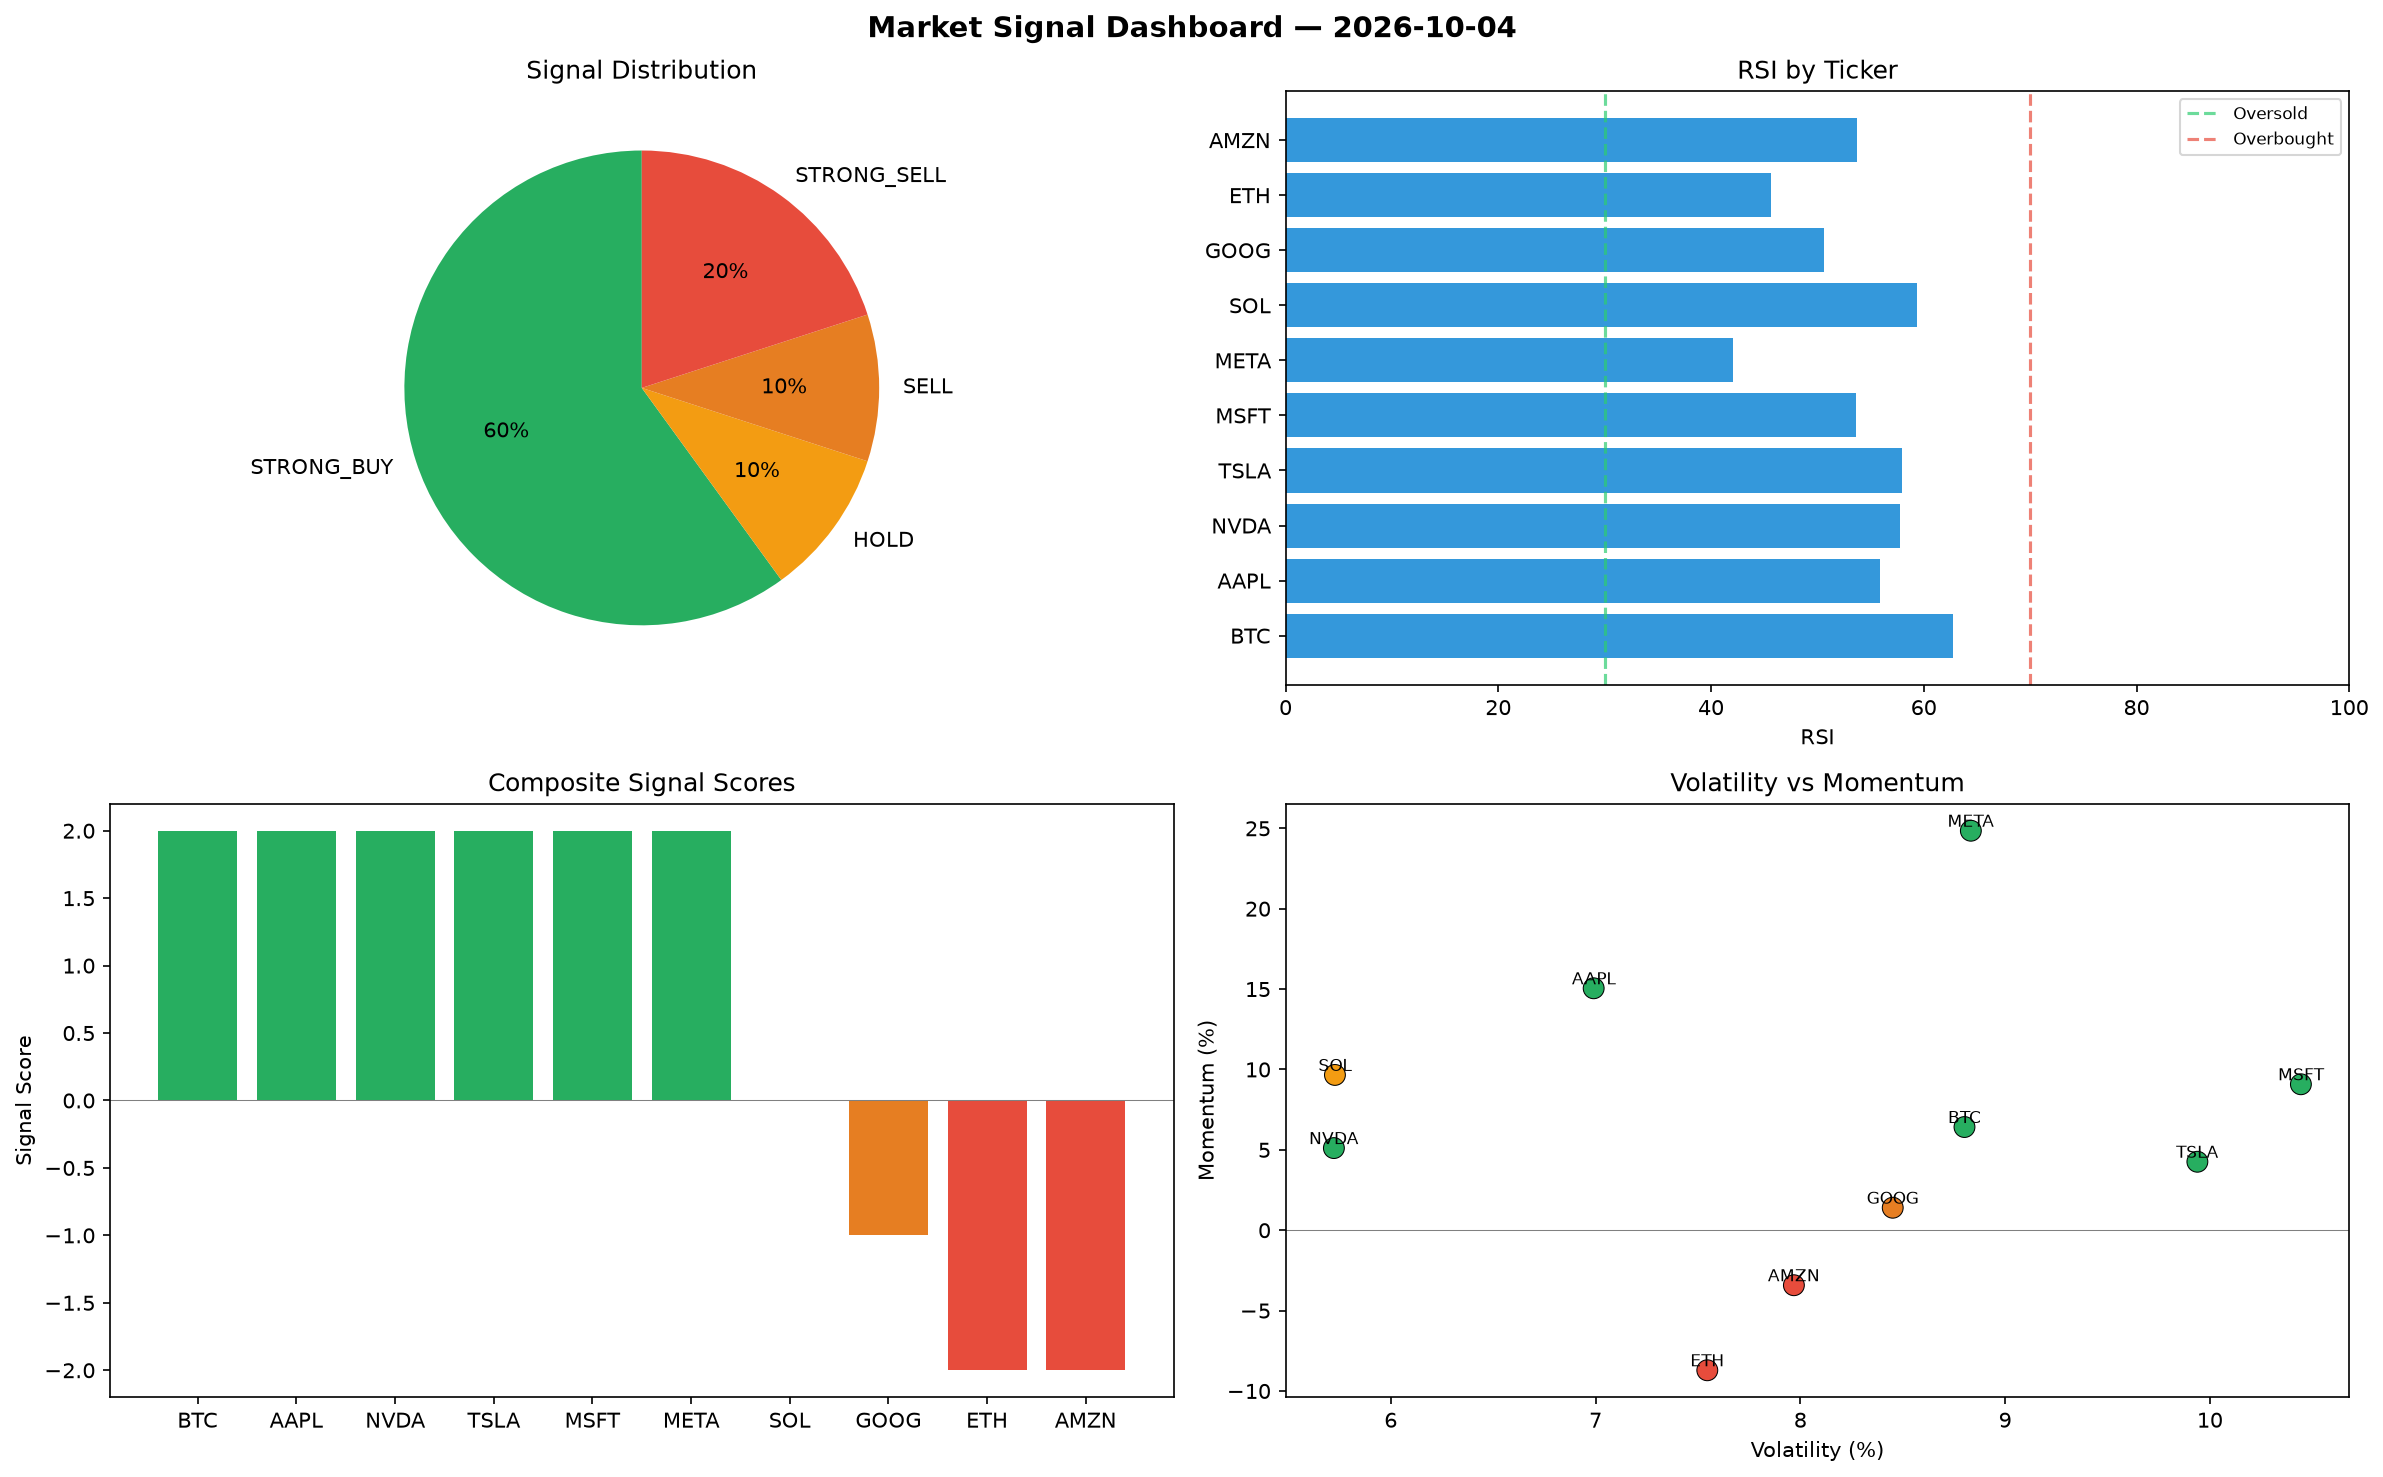
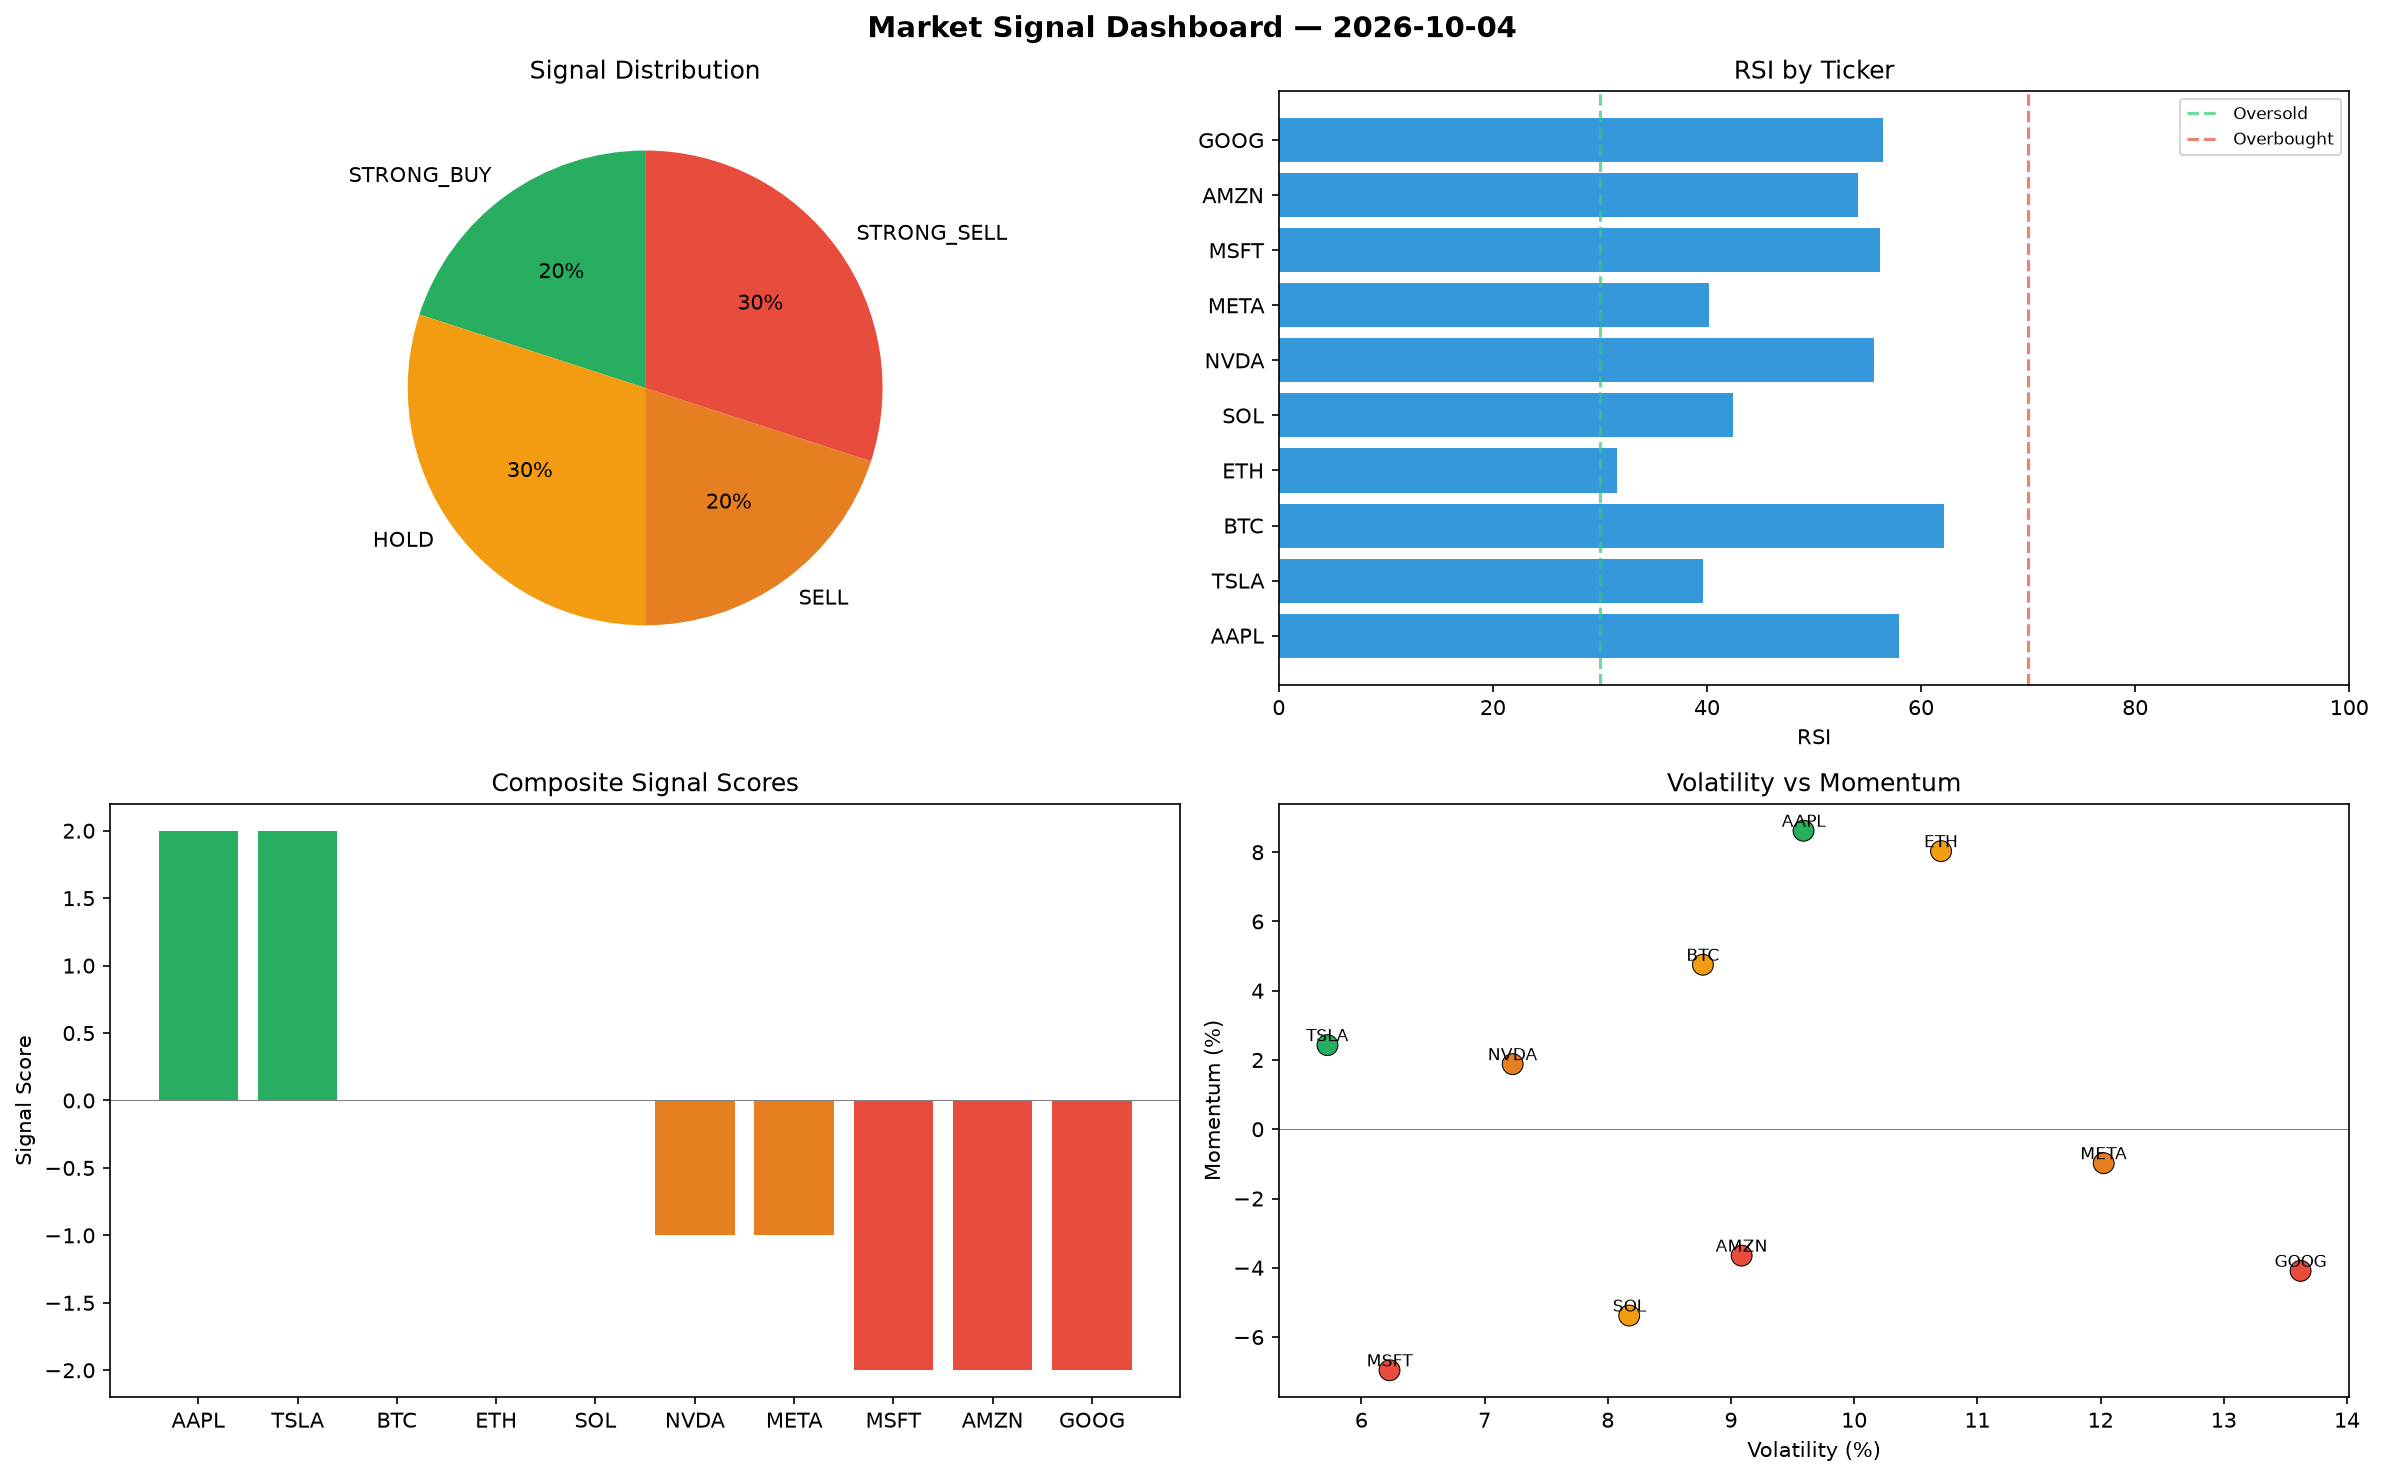
automated-bots: market signals 2026-10-04T23:20

diff --git a/logs/2026-10-04.md b/logs/2026-10-04.md
@@ -1,6 +1,6 @@
 # Market Signal Report — 2026-10-04
 
-**Run ID:** `2723c84db1` | **Buy:** 6 | **Sell:** 3 | **Hold:** 1
+**Run ID:** `b07fae2d46` | **Buy:** 2 | **Sell:** 5 | **Hold:** 3
 
 ![Dashboard](2026-10-04_dashboard.png)
 
@@ -8,28 +8,28 @@
 
 | Ticker | Price | Signal | Score | RSI | Momentum | Confidence |
 |--------|-------|--------|-------|-----|----------|------------|
-| BTC | $4517.31 | **STRONG_BUY** | 2 | 62.78 | 0.0642 | 0.5 |
-| AAPL | $3140.36 | **STRONG_BUY** | 2 | 55.85 | 0.1505 | 0.5 |
-| NVDA | $2705.35 | **STRONG_BUY** | 2 | 57.74 | 0.0511 | 0.5 |
-| TSLA | $1239.92 | **STRONG_BUY** | 2 | 57.93 | 0.0426 | 0.5 |
-| MSFT | $551.31 | **STRONG_BUY** | 2 | 53.65 | 0.0908 | 0.5 |
-| META | $4265.74 | **STRONG_BUY** | 2 | 42.02 | 0.2485 | 0.5 |
-| SOL | $3277.8 | **HOLD** | 0 | 59.35 | 0.0966 | 0.0 |
-| GOOG | $577.35 | **SELL** | -1 | 50.58 | 0.014 | 0.25 |
-| ETH | $3706.18 | **STRONG_SELL** | -2 | 45.68 | -0.0871 | 0.5 |
-| AMZN | $1612.85 | **STRONG_SELL** | -2 | 53.73 | -0.0342 | 0.5 |
+| AAPL | $261.11 | **STRONG_BUY** | 2 | 57.95 | 0.0862 | 0.5 |
+| TSLA | $1996.04 | **STRONG_BUY** | 2 | 39.62 | 0.0243 | 0.5 |
+| BTC | $1882.16 | **HOLD** | 0 | 62.11 | 0.0475 | 0.0 |
+| ETH | $1839.2 | **HOLD** | 0 | 31.58 | 0.0803 | 0.0 |
+| SOL | $3901.07 | **HOLD** | 0 | 42.45 | -0.0538 | 0.0 |
+| NVDA | $2516.09 | **SELL** | -1 | 55.58 | 0.0188 | 0.25 |
+| META | $114.96 | **SELL** | -1 | 40.22 | -0.0098 | 0.25 |
+| MSFT | $39.03 | **STRONG_SELL** | -2 | 56.21 | -0.0696 | 0.5 |
+| AMZN | $2261.74 | **STRONG_SELL** | -2 | 54.11 | -0.0365 | 0.5 |
+| GOOG | $1480.87 | **STRONG_SELL** | -2 | 56.48 | -0.0409 | 0.5 |
 
 ## Delta vs Yesterday
 
 | Ticker | Today | Yesterday | Price Change | Signal Changed |
 |--------|-------|-----------|-------------|----------------|
-| BTC | STRONG_BUY | HOLD | 📈 431.57% | ⚠ YES |
-| AAPL | STRONG_BUY | SELL | 📈 8.81% | ⚠ YES |
-| NVDA | STRONG_BUY | HOLD | 📈 0.68% | ⚠ YES |
-| TSLA | STRONG_BUY | STRONG_BUY | 📈 53.9% | — |
-| MSFT | STRONG_BUY | STRONG_SELL | 📉 -84.31% | ⚠ YES |
-| META | STRONG_BUY | HOLD | 📈 78.9% | ⚠ YES |
-| SOL | HOLD | STRONG_SELL | 📈 136.15% | ⚠ YES |
-| GOOG | SELL | HOLD | 📉 -85.3% | ⚠ YES |
-| ETH | STRONG_SELL | BUY | 📈 47.07% | ⚠ YES |
-| AMZN | STRONG_SELL | STRONG_BUY | 📈 32.98% | ⚠ YES |
+| AAPL | STRONG_BUY | SELL | 📉 -90.95% | ⚠ YES |
+| TSLA | STRONG_BUY | STRONG_BUY | 📈 147.74% | — |
+| BTC | HOLD | HOLD | 📈 121.48% | — |
+| ETH | HOLD | BUY | 📉 -27.02% | ⚠ YES |
+| SOL | HOLD | STRONG_SELL | 📈 181.06% | ⚠ YES |
+| NVDA | SELL | HOLD | 📉 -6.37% | ⚠ YES |
+| META | SELL | HOLD | 📉 -95.18% | ⚠ YES |
+| MSFT | STRONG_SELL | STRONG_SELL | 📉 -98.89% | — |
+| AMZN | STRONG_SELL | STRONG_BUY | 📈 86.49% | ⚠ YES |
+| GOOG | STRONG_SELL | HOLD | 📉 -62.29% | ⚠ YES |
